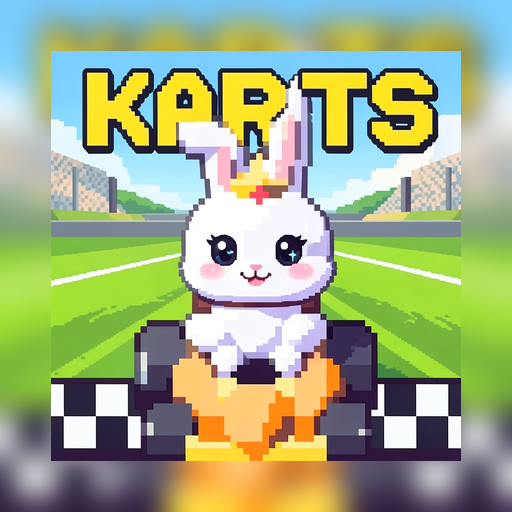
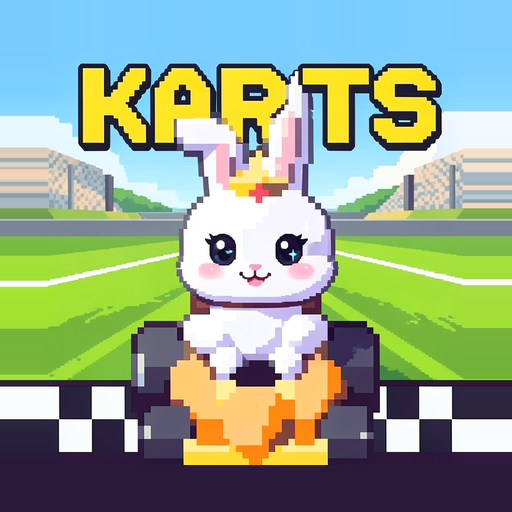
alfa df671b3: Karts: icono alejado para que no se vea con zoom ni toque los bordes

diff --git a/alfa/index.html b/alfa/index.html
@@ -11,10 +11,10 @@
 <link rel="preconnect" href="https://fonts.googleapis.com">
 <link rel="preconnect" href="https://fonts.gstatic.com" crossorigin>
 <link rel="stylesheet" href="https://fonts.googleapis.com/css2?family=Baloo+2:wght@600;700;800&family=Luckiest+Guy&display=swap">
-<link rel="stylesheet" href="core/css/base.css?v=264c82a">
-<link rel="stylesheet" href="biblioteca/tienda.css?v=264c82a">
-<link rel="stylesheet" href="novedades/ventana.css?v=264c82a">
-<link rel="stylesheet" href="biblioteca/votos.css?v=264c82a">
+<link rel="stylesheet" href="core/css/base.css?v=df671b3">
+<link rel="stylesheet" href="biblioteca/tienda.css?v=df671b3">
+<link rel="stylesheet" href="novedades/ventana.css?v=df671b3">
+<link rel="stylesheet" href="biblioteca/votos.css?v=df671b3">
 <style>
   /* la entrada de la web: una tarjeta por juego, con los colores y las letras de core */
   body { overflow: auto; touch-action: auto; align-items: flex-start; background-repeat: no-repeat; background-attachment: fixed; }
@@ -62,7 +62,7 @@
 </style>
 </head>
 <body>
-<script src="menu.js?v=264c82a" data-base="" data-core="1" data-pagina=""></script>
+<script src="menu.js?v=df671b3" data-base="" data-core="1" data-pagina=""></script>
 <div class="nov-fondo" id="novedades" hidden>
   <div class="nov-caja" role="dialog" aria-modal="true" aria-labelledby="nov-titulo">
     <div class="nov-cabeza"><h2 class="ol" id="nov-titulo">NOVEDADES</h2><p id="nov-sub"></p></div>
@@ -359,8 +359,8 @@
   </section>
   <p class="note" id="pie-fansof">Fans Of™ · © 2026 Arkioner y Pepins · MicroBlizz · Todos los derechos reservados</p>
 </main>
-<script src="core/js/nucleo.js?v=0-a954.264c82a"></script>
-<script src="core/js/novedades.js?v=264c82a"></script>
+<script src="core/js/nucleo.js?v=0-a955.df671b3"></script>
+<script src="core/js/novedades.js?v=df671b3"></script>
 <script>
 // La cuenta de la web es la misma de los juegos (core/js/sistema/cuenta.js, mismo navegador = misma sesión). Aquí no hay partida que subir.
 const AJUSTES = { id: 'web', guardado: 'fansof-web' }, SAVE_KEY = AJUSTES.guardado, SAVE = {};
@@ -369,7 +369,7 @@ const HOOKS = {};
 function hook(name, fn) { (HOOKS[name] = HOOKS[name] || []).push(fn); }
 function fire(name, ...a) { let out = ''; for (const fn of HOOKS[name] || []) { const r = fn(...a); if (typeof r === 'string') out += r; } return out; }
 </script>
-<script src="core/js/sistema/cuenta.js?v=264c82a"></script>
+<script src="core/js/sistema/cuenta.js?v=df671b3"></script>
 <script>NUCLEO.idiomaSolo({ en: ['core/idioma/en-raiz.js', 'novedades/en.js', 'biblioteca/en.js','games/rumble/idioma/en-7.js', 'games/td/idioma/en-2.js', 'games/survivors/idioma/en.js', 'games/crush/idioma/en-raiz.js', 'games/jump/idioma/en-raiz.js', 'games/taxi/idioma/en-raiz.js', 'games/dark/idioma/en-raiz.js', 'games/nova/idioma/en-raiz.js', 'games/nova/idioma/en-raiz-2.js', 'demos/beams/idioma/en-raiz.js', 'demos/snakes/idioma/en-raiz.js', 'demos/merge/idioma/en-raiz.js', 'demos/swipe/idioma/en-raiz.js', 'demos/pop/idioma/en-raiz.js', 'demos/vikings/idioma/en-raiz.js', 'demos/goose/idioma/en-raiz.js', 'demos/asalto/idioma/en-raiz.js', 'demos/auto/idioma/en-raiz.js', 'demos/shelter/idioma/en-raiz.js', 'demos/soccer/idioma/en-raiz.js', 'demos/air/idioma/en-raiz.js', 'games/island/idioma/en-raiz.js', 'demos/rumble-3d/idioma/en-raiz.js', 'demos/roguelite/idioma/en-raiz.js', 'demos/tactics-advance/idioma/en-raiz.js', 'games/rouflage/idioma/en-raiz.js', 'demos/dungeons/idioma/en-raiz.js', 'games/karts/idioma/en-raiz.js', 'demos/recruit/idioma/en-raiz.js', 'demos/terminal-shock/idioma/en-raiz.js', 'games/ratkov/idioma/en-raiz.js'] })</script>
 <script>
 // La versión y las novedades salen de los archivos de cada juego, así que esta página nunca se queda atrás.
@@ -395,14 +395,14 @@ const fail = id => () => {
 };
 
 </script>
-<script src="core/js/proximamente.js?v=264c82a"></script>
-<script src="novedades/ventana.js?v=264c82a"></script>
-<script src="biblioteca/tienda.js?v=264c82a"></script>
-<script src="core/js/sistema/beta.js?v=264c82a"></script>
-<script src="biblioteca/cuenta-web.js?v=264c82a"></script>
-<script src="biblioteca/votos.js?v=264c82a"></script>
-<script src="biblioteca/alfa.js?v=264c82a"></script>
-<script src="core/js/sistema/analitica.js?v=264c82a"></script>
-<script src="pie.js?v=264c82a" defer></script>
+<script src="core/js/proximamente.js?v=df671b3"></script>
+<script src="novedades/ventana.js?v=df671b3"></script>
+<script src="biblioteca/tienda.js?v=df671b3"></script>
+<script src="core/js/sistema/beta.js?v=df671b3"></script>
+<script src="biblioteca/cuenta-web.js?v=df671b3"></script>
+<script src="biblioteca/votos.js?v=df671b3"></script>
+<script src="biblioteca/alfa.js?v=df671b3"></script>
+<script src="core/js/sistema/analitica.js?v=df671b3"></script>
+<script src="pie.js?v=df671b3" defer></script>
 </body>
 </html>

diff --git a/alfa/games/rouflage/index.html b/alfa/games/rouflage/index.html
@@ -10,7 +10,7 @@
 <link rel="preconnect" href="https://fonts.googleapis.com">
 <link rel="preconnect" href="https://fonts.gstatic.com" crossorigin>
 <link rel="stylesheet" href="https://fonts.googleapis.com/css2?family=Baloo+2:wght@600;700;800&family=Luckiest+Guy&display=swap">
-<script src="../../core/js/nucleo.js?v=0.2.68-a954.264c82a"></script>
+<script src="../../core/js/nucleo.js?v=0.2.68-a955.df671b3"></script>
 <script>NUCLEO.estilos('../../core/css/base.css', '../../core/css/menus.css', '../../core/css/menus-extra.css')</script>
 <script>NUCLEO.estilos('estilo.css', 'estilo-taller.css', 'estilo-pantallas.css', 'estilo-pvp.css', 'estilo-armario.css', 'estilo-menus.css', 'estilo-misiones.css', 'estilo-escenario.css', 'estilo-votos.css', 'estilo-gacha.css', 'estilo-compra.css', 'estilo-fin.css', 'estilo-talentos.css', 'estilo-chat.css', 'estilo-titulo.css', 'estilo-tienda.css', 'estilo-barras.css', 'estilo-barra.css', 'estilo-sala-viva.css', 'estilo-obra.css', 'estilo-ayuda.css', 'estilo-carga.css')</script>      <!-- la intro, la última: pisa el #carga de estilo.css (antes iba en línea dentro de #carga) -->
 </head>

diff --git a/alfa/demos/rumble-v2/index.html b/alfa/demos/rumble-v2/index.html
@@ -18,7 +18,7 @@
 <!-- core/js/nucleo.js carga lo común y el juego. LA VERSIÓN SE ESCRIBE SOLO AQUÍ, en su ?v= -->
 <!-- GENERADO por herramientas/rumble_v2.py desde games/rumble/index.html: no editar a mano -->
 <script>try { const u = new URL(location.href); if (u.searchParams.get('nube') !== '0') { u.searchParams.set('nube', '0'); history.replaceState(null, '', u); } } catch (e) { /* sin dirección */ }</script>
-<script src="../../core/js/nucleo.js?v=0.9.158-a954.264c82a"></script>
+<script src="../../core/js/nucleo.js?v=0.9.158-a955.df671b3"></script>
 <script>NUCLEO.estilos('../../core/css/menus.css', '../../games/rumble/css/estilos-partida.css', '../../games/rumble/css/estilos-extra.css', '../../games/rumble/css/arena.css', '../../core/css/biblioteca.css', '../../games/rumble/css/facciones-y-jefes.css', '../../core/css/clasificacion.css', '../../games/rumble/css/frases.css', '../../games/rumble/css/mitica.css', '../../games/rumble/css/paletas.css')</script>
 
 </head>

diff --git a/alfa/games/karts/index.html b/alfa/games/karts/index.html
@@ -8,7 +8,7 @@
 <meta name="description" content="Fans of Karts (juego): carreras de karts en pixel art de consola portátil con los líderes de Fans of Rumble. Tres pistas, seis pilotos, objetos con mala idea y Microblizz, que ha comprado la carrera.">
 <link rel="icon" type="image/png" href="img/favicon.png">
 <link rel="apple-touch-icon" href="img/icon-192.png">
-<script src="../../core/js/nucleo.js?v=0.7.20-a954.264c82a"></script>
+<script src="../../core/js/nucleo.js?v=0.7.20-a955.df671b3"></script>
 <script>NUCLEO.estilos('../../core/css/base.css', '../../core/css/menus.css', '../../core/css/menus-tienda.css', '../../core/css/menus-extra.css', 'css/tienda.css', 'css/pvp.css')</script>
 <link rel="stylesheet" href="https://fonts.googleapis.com/css2?family=Baloo+2:wght@600;700;800&family=Luckiest+Guy&display=swap">
 <style>

diff --git a/alfa/games/dark/index.html b/alfa/games/dark/index.html
@@ -12,7 +12,7 @@
 <link rel="stylesheet" href="https://fonts.googleapis.com/css2?family=Baloo+2:wght@600;700;800&family=Luckiest+Guy&family=Press+Start+2P&family=Pixelify+Sans:wght@400;600;700&display=swap">
 <link rel="stylesheet" href="css/dark.css?v=0.2.4">
 <!-- Prototipo: no usa NUCLEO (tiene su propia partida guardada). Carga de core el arte, la música, los efectos y las cifras del Rumble.
-     VERSIÓN para desplegar.py (que la busca así): nucleo.js?v=0.2.7-a954.264c82a' (aquí solo se anota; súbela junto al ?v= de los scripts). -->
+     VERSIÓN para desplegar.py (que la busca así): nucleo.js?v=0.2.7-a955.df671b3' (aquí solo se anota; súbela junto al ?v= de los scripts). -->
 </head>
 <body>
 <canvas id="cv" aria-label="Mazmorra"></canvas>

diff --git a/alfa/games/rumble/index.html b/alfa/games/rumble/index.html
@@ -16,7 +16,7 @@
 <link rel="preconnect" href="https://fonts.gstatic.com" crossorigin>
 <link rel="stylesheet" href="https://fonts.googleapis.com/css2?family=Baloo+2:wght@600;700;800&family=Luckiest+Guy&display=swap">
 <!-- core/js/nucleo.js carga lo común y el juego. LA VERSIÓN SE ESCRIBE SOLO AQUÍ, en su ?v= -->
-<script src="../../core/js/nucleo.js?v=0.9.163-a954.264c82a"></script>
+<script src="../../core/js/nucleo.js?v=0.9.163-a955.df671b3"></script>
 <script>NUCLEO.estilos('../../core/css/menus.css', 'css/estilos-partida.css', 'css/estilos-extra.css', 'css/arena.css', '../../core/css/biblioteca.css', 'css/facciones-y-jefes.css', '../../core/css/clasificacion.css', 'css/frases.css', 'css/mitica.css', 'css/paletas.css')</script>
 
 </head>

diff --git a/alfa/games/jump/index.html b/alfa/games/jump/index.html
@@ -12,7 +12,7 @@
 <link rel="preconnect" href="https://fonts.gstatic.com" crossorigin>
 <link rel="stylesheet" href="https://fonts.googleapis.com/css2?family=Baloo+2:wght@600;700;800&family=Luckiest+Guy&display=swap">
 <!-- ?v= es la versión del juego (la misma en la web y en la app): súbela al publicar y pon su entrada en js/novedades.js -->
-<script src="../../core/js/nucleo.js?v=0.3.21-a954.264c82a"></script>
+<script src="../../core/js/nucleo.js?v=0.3.21-a955.df671b3"></script>
 <script>NUCLEO.estilos('../../core/css/base.css', '../../core/css/menus.css')</script>
 <style>
 /* Fans of Jump: un solo canvas a la resolución real de la pantalla, con los dibujos 3D. El mundo mide unos 200 de ancho y se

diff --git a/alfa/games/decks/index.html b/alfa/games/decks/index.html
@@ -15,7 +15,7 @@
 <link rel="preconnect" href="https://fonts.gstatic.com" crossorigin>
 <link rel="stylesheet" href="https://fonts.googleapis.com/css2?family=Baloo+2:wght@600;700;800&family=Luckiest+Guy&display=swap">
 <!-- core/js/nucleo.js carga lo común y el juego. LA VERSIÓN SE ESCRIBE SOLO AQUÍ, en su ?v= -->
-<script src="../../core/js/nucleo.js?v=0.2.26-a954.264c82a"></script>
+<script src="../../core/js/nucleo.js?v=0.2.26-a955.df671b3"></script>
 <script>NUCLEO.estilos('../../core/css/base.css', '../../core/css/menus.css', 'css/decks.css', 'css/decks-reunion.css', 'css/decks-anim.css', 'css/decks-campana.css', 'css/decks-lideres.css')</script>
 </head>
 <body>

diff --git a/alfa/games/ratkov/index.html b/alfa/games/ratkov/index.html
@@ -13,7 +13,7 @@
 <link rel="preconnect" href="https://fonts.gstatic.com" crossorigin>
 <link rel="stylesheet" href="https://fonts.googleapis.com/css2?family=VT323&family=Russo+One&display=swap">
 <script src="https://cdnjs.cloudflare.com/ajax/libs/three.js/r128/three.min.js"></script>
-<script src="../../core/js/nucleo.js?v=0.2.34-a954.264c82a"></script>
+<script src="../../core/js/nucleo.js?v=0.2.34-a955.df671b3"></script>
 <script>NUCLEO.estilos('../../core/css/base.css', '../../core/css/menus.css')</script>
 <link rel="stylesheet" href="estilo.css?v=0.2.3">
 <link rel="stylesheet" href="estilo-refugio.css?v=0.2.3">

diff --git a/alfa/games/survivors/index.html b/alfa/games/survivors/index.html
@@ -15,7 +15,7 @@
 <link rel="preconnect" href="https://fonts.gstatic.com" crossorigin>
 <link rel="stylesheet" href="https://fonts.googleapis.com/css2?family=Baloo+2:wght@600;700;800&family=Luckiest+Guy&display=swap">
 <!-- core/js/nucleo.js carga lo común y el juego. LA VERSIÓN SE ESCRIBE SOLO AQUÍ, en su ?v= -->
-<script src="../../core/js/nucleo.js?v=0.1.76-a954.264c82a"></script>
+<script src="../../core/js/nucleo.js?v=0.1.76-a955.df671b3"></script>
 <script>NUCLEO.estilos('../../core/css/base.css', '../../core/css/menus.css', 'css/survivors.css', '../../core/css/biblioteca.css')</script>
 </head>
 <body>

diff --git a/alfa/games/td/index.html b/alfa/games/td/index.html
@@ -15,7 +15,7 @@
 <link rel="preconnect" href="https://fonts.gstatic.com" crossorigin>
 <link rel="stylesheet" href="https://fonts.googleapis.com/css2?family=Baloo+2:wght@600;700;800&family=Luckiest+Guy&display=swap">
 <!-- core/js/nucleo.js carga lo común y el juego. LA VERSIÓN SE ESCRIBE SOLO AQUÍ, en su ?v= -->
-<script src="../../core/js/nucleo.js?v=0.13.92-a954.264c82a"></script>
+<script src="../../core/js/nucleo.js?v=0.13.92-a955.df671b3"></script>
 <script>NUCLEO.estilos('../../core/css/base.css', 'css/td.css', '../../core/css/menus.css', '../../core/css/biblioteca.css')</script>
 </head>
 <body>

diff --git a/alfa/demos/goose/index.html b/alfa/demos/goose/index.html
@@ -10,7 +10,7 @@
 <link rel="preconnect" href="https://fonts.gstatic.com" crossorigin>
 <link rel="stylesheet" href="https://fonts.googleapis.com/css2?family=Jersey+15&family=Pirata+One&display=swap">
 <!-- ?v= es la versión de la demo: súbela al publicar -->
-<script src="../../core/js/nucleo.js?v=0.10.0-a954.264c82a"></script>
+<script src="../../core/js/nucleo.js?v=0.10.0-a955.df671b3"></script>
 <script>NUCLEO.estilos('../../core/css/base.css', '../../core/css/menus.css')</script>
 <style>
 /* Fans of Goose: un solo canvas en vertical, a la resolución real del móvil. El mundo mide 200 de ancho. */
